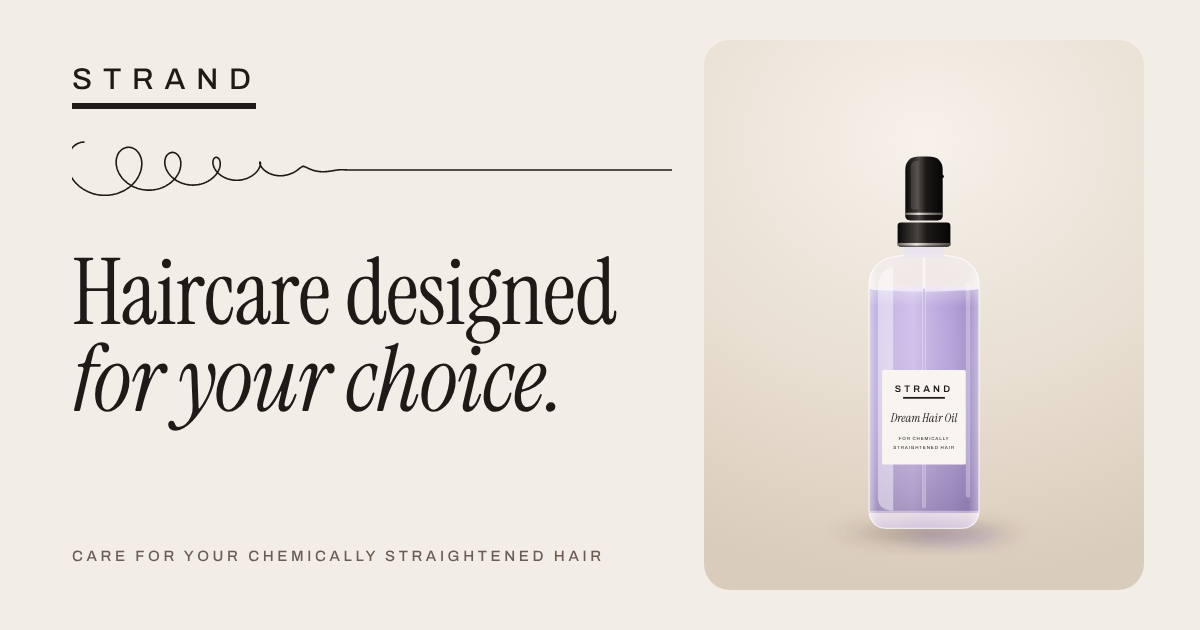
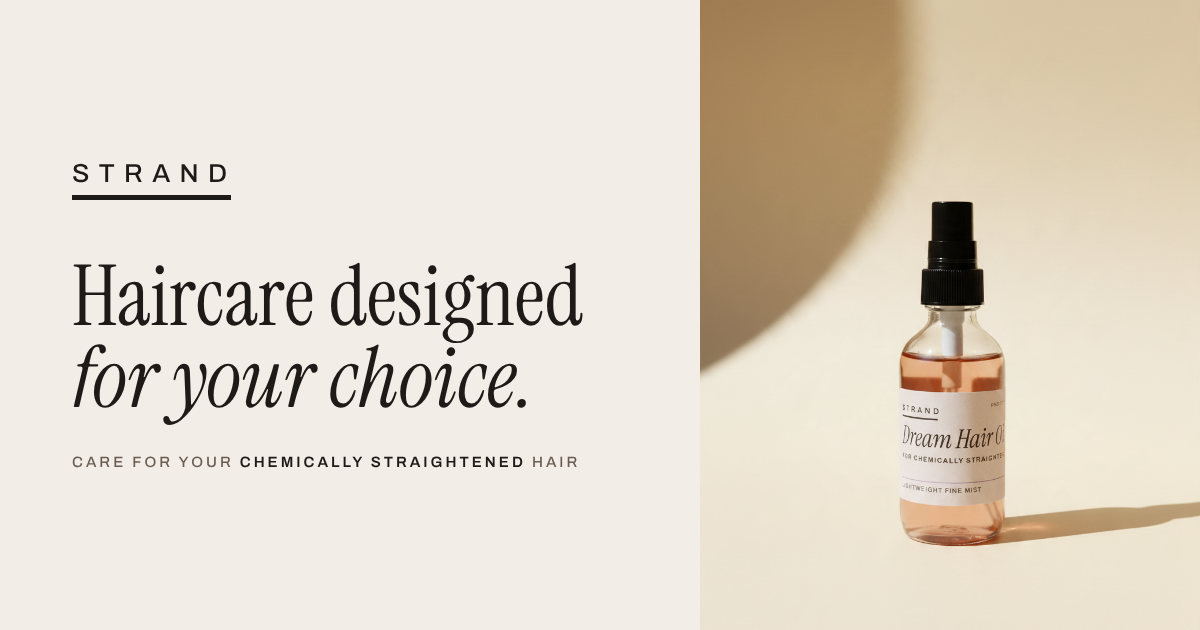
New link preview image using real product photo
Claude-Session: https://claude.ai/code/session_019cyrwqGs1G6DCDMwhyXEfq

diff --git a/index.html b/index.html
@@ -12,12 +12,12 @@
 <meta property="og:url" content="https://strand-haircare.com/">
 <meta property="og:title" content="STRAND | Haircare designed for your choice">
 <meta property="og:description" content="Care for your chemically straightened hair. A simple routine for the weeks between touch-ups, starting with Dream Hair Oil.">
-<meta property="og:image" content="https://strand-haircare.com/og.png">
+<meta property="og:image" content="https://strand-haircare.com/og.png?v=2">
 <meta property="og:image:width" content="1200">
 <meta property="og:image:height" content="630">
-<meta property="og:image:alt" content="STRAND Dream Hair Oil in a glass spray bottle, with the line Haircare designed for your choice">
+<meta property="og:image:alt" content="STRAND Dream Hair Oil, a glass bottle of rosy oil with a black fine-mist sprayer, next to the line Haircare designed for your choice">
 <meta name="twitter:card" content="summary_large_image">
-<meta name="twitter:image" content="https://strand-haircare.com/og.png">
+<meta name="twitter:image" content="https://strand-haircare.com/og.png?v=2">
 <link rel="preconnect" href="https://fonts.googleapis.com">
 <link rel="preconnect" href="https://fonts.gstatic.com" crossorigin>
 <link rel="stylesheet" href="https://fonts.googleapis.com/css2?family=Archivo:wdth,wght@62..125,300..700&family=Instrument+Serif:ital@0;1&display=swap">

diff --git a/philosophy.html b/philosophy.html
@@ -12,12 +12,12 @@
 <meta property="og:url" content="https://strand-haircare.com/philosophy.html">
 <meta property="og:title" content="STRAND | Our routine philosophy">
 <meta property="og:description" content="Simple. Clean. Effective. Haircare for chemically straightened hair that gives you your time back.">
-<meta property="og:image" content="https://strand-haircare.com/og.png">
+<meta property="og:image" content="https://strand-haircare.com/og.png?v=2">
 <meta property="og:image:width" content="1200">
 <meta property="og:image:height" content="630">
-<meta property="og:image:alt" content="STRAND Dream Hair Oil in a glass spray bottle, with the line Haircare designed for your choice">
+<meta property="og:image:alt" content="STRAND Dream Hair Oil, a glass bottle of rosy oil with a black fine-mist sprayer, next to the line Haircare designed for your choice">
 <meta name="twitter:card" content="summary_large_image">
-<meta name="twitter:image" content="https://strand-haircare.com/og.png">
+<meta name="twitter:image" content="https://strand-haircare.com/og.png?v=2">
 <link rel="preconnect" href="https://fonts.googleapis.com">
 <link rel="preconnect" href="https://fonts.gstatic.com" crossorigin>
 <link rel="stylesheet" href="https://fonts.googleapis.com/css2?family=Archivo:wdth,wght@62..125,300..700&family=Instrument+Serif:ital@0;1&display=swap">
